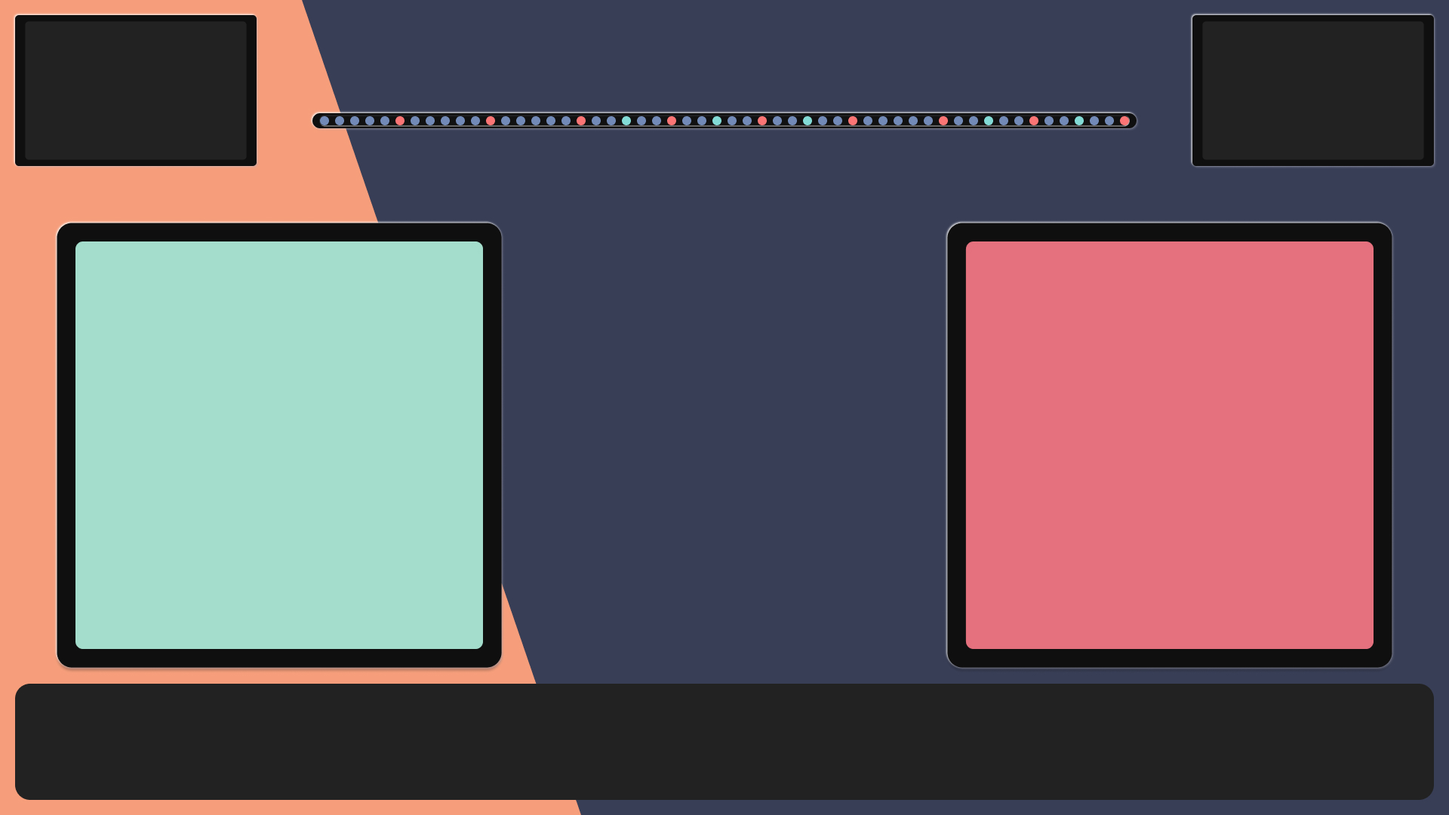
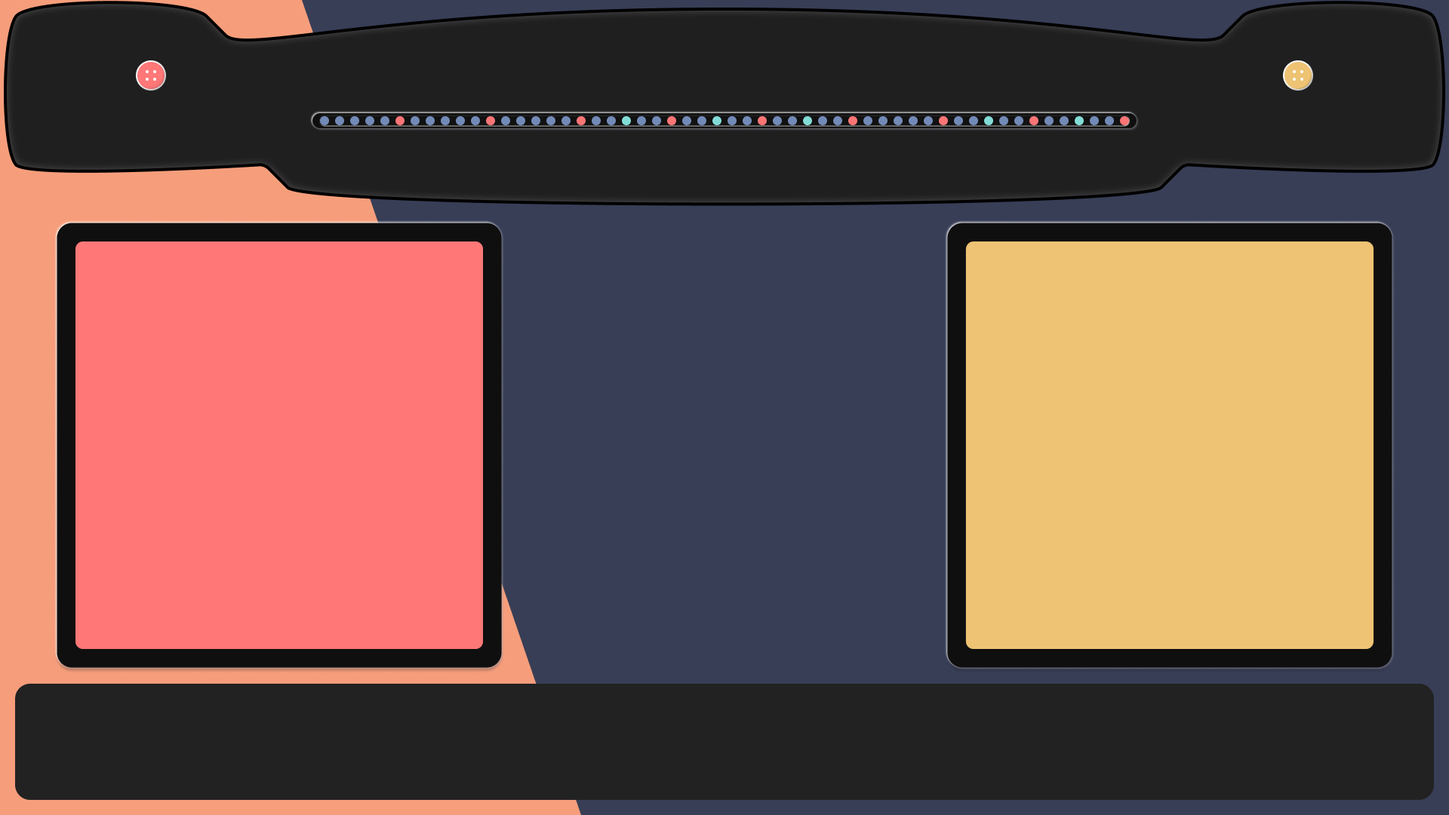
GUI update

diff --git a/src/main/resources/view/demo.js b/src/main/resources/view/demo.js
@@ -1,2 +1,1 @@
-export const demo = 
-{"views":["KEY_FRAME 0\n{\"global\":{\"entitymodule\":{\"width\":1920,\"height\":1080}},\"frame\":{\"duration\":600,\"entitymodule\":\"CS;S;R;R;S;S;C;C;C;C;C;S;C;C;C;C;C;C;S;C;C;C;C;C;C;S;C;C;C;C;C;C;S;C;C;C;C;C;C;S;C;C;C;C;C;C;S;C;C;C;C;C;C;S;C;C;C;C;C;C;S;C;C;C;C;C;C;S;C;S;S;T;T;S;S;T;T;S;S;T;T;G;S;S;T;T;G;S;S;T;T;G;S;S;T;T;G;S;S;T;T;G;S;S;T;T;G;S;S;T;T;G;S;S;T;T;G;S;S;T;T;G;S;S;T;T;G;S;S;T;T;G;S;S;T;T;G;S;S;T;T;G;S;S;T;T;G;S;S;T;T;G;S;S;T;T;G;S;S;T;T;G;S;S;T;T;G;S;S;T;T;G;S;S;T;T;G;S;S;T;T;G;S;S;T;T;G;S;S;T;T;G;S;S;T;T;G;S;S;T;T;G;S;S;T;T;G;S;S;T;T;G;S;S;T;T;G;S;S;T;T;G;S;S;T;T;G;S;S;T;T;G;S;S;T;T;G;S;S;T;T;G;S;S;T;T;G;S;S;T;T;G;S;S;T;T;G;S;S;T;T;G;S;S;T;T;G\\nU66 0.1 f 7506615 v 1 x 1450 y 160 R 6 z 2;115 0.1 f 0 v 1 ff 'Brush Script MT' x 75 y 7 s 40 T '7 ' z 3;252 0.1 ch 249,251,250 v 0;27 0.1 f 16479605 v 1 x 770 y 160 R 6 z 2;52 0.1 f 7506615 v 1 x 1210 y 160 R 6 z 2;124 0.1 bw 200 i pricetag.png v 1 x 0 y 0 bh 60;184 0.1 bw 200 i pricetag.png v 1 x 0 y 0 bh 60;244 0.1 bw 200 i pricetag.png v 1 x 0 y 0 bh 60;120 0.1 f 0 v 1 ff 'Brush Script MT' x 75 y 7 s 40 T '7 ' z 3;139 0.1 bw 200 i pricetag.png v 1 x 0 y 0 bh 60;47 0.1 bw 20 ay 0.5 i button.png v 1 ax 0.5 x 1130 y 160 bh 20 z 3;133 0.1 sx 0.2 bw 180 i tile11.png sy 0.2 ay 0.5 v 1 ax 0.5 x 548 y 979 bh 120 z 100;58 0.1 f 8641494 v 1 x 1310 y 160 R 6 z 2;194 0.1 bw 200 i pricetag.png v 1 x 0 y 0 bh 60;186 0.1 f 0 v 1 ff 'Brush Script MT' x 157 y 7 s 40 T '2 ' z 3;69 0.1 f 16479605 v 1 x 1490 y 160 R 6 z 2;82 0.1 x 1010 y 360 v 1 ch 81,80,79;137 0.1 ch 134,136,135 v 0;28 0.1 f 7506615 v 1 x 790 y 160 R 6 z 2;189 0.1 bw 200 i pricetag.png v 1 x 0 y 0 bh 60;12 0.1 bw 20 ay 0.5 i button.png v 1 ax 0.5 x 530 y 160 bh 20 z 3;7 0.1 f 7506615 v 1 x 430 y 160 R 6 z 2;230 0.1 f 0 v 1 ff 'Brush Script MT' x 75 y 7 s 40 T '1 ' z 3;93 0.1 sx 0.2 bw 180 i tile1.png sy 0.2 ay 0.5 v 1 ax 0.5 x 60 y 979 bh 180 z 100;140 0.1 f 0 v 1 ff 'Brush Script MT' x 75 y 7 s 40 T '8 ' z 3;167 0.1 ch 166,164,165 v 0;5 0.1 i TimeToken1.png ay 1 v 1 ax 0.5 x 430 y 140 z 2;21 0.1 f 7506615 v 1 x 670 y 160 R 6 z 2;90 0.1 f 0 v 1 ff 'Brush Script MT' x 75 y 7 s 40 T '4 ' z 3;118 0.1 sx 0.2 bw 300 i tile24.png sy 0.2 ay 0.5 v 1 ax 0.5 x 365 y 979 bh 60 z 100;53 0.1 f 7506615 v 1 x 1230 y 160 R 6 z 2;54 0.1 bw 20 ay 0.5 i button.png v 1 ax 0.5 x 1250 y 160 bh 20 z 3;240 0.1 f 0 v 1 ff 'Brush Script MT' x 75 y 7 s 40 T '2 ' z 3;199 0.1 bw 200 i pricetag.png v 1 x 0 y 0 bh 60;16 0.1 f 7506615 v 1 x 590 y 160 R 6 z 2;96 0.1 f 0 v 1 ff 'Brush Script MT' x 157 y 7 s 40 T '6 ' z 3;15 0.1 f 7506615 v 1 x 570 y 160 R 6 z 2;206 0.1 f 0 v 1 ff 'Brush Script MT' x 157 y 7 s 40 T '5 ' z 3;92 0.1 x 980 y 720 v 1 ch 89,90,91;163 0.1 sx 0.2 bw 180 i tile18.png sy 0.2 ay 0.5 v 1 ax 0.5 x 914 y 979 bh 60 z 100;171 0.1 f 0 v 1 ff 'Brush Script MT' x 157 y 7 s 40 T '3 ' z 3;38 0.1 f 7506615 v 1 x 970 y 160 R 6 z 2;127 0.1 ch 125,124,126 v 0;10 0.1 f 7506615 v 1 x 490 y 160 R 6 z 2;227 0.1 ch 224,225,226 v 0;195 0.1 f 0 v 1 ff 'Brush Script MT' x 75 y 7 s 40 T '10 ' z 3;154 0.1 bw 200 i pricetag.png v 1 x 0 y 0 bh 60;253 0.1 i tile-3.png v 1 r 22 sx 0.33 bw 60 sy 0.33 ay 0.5 ax 0.5 x 1071 y 159 bh 60 z 48;45 0.1 f 7506615 v 1 x 1090 y 160 R 6 z 2;1 0.1 x 0 i background.jpeg y 0 v 1 z 0;100 0.1 f 0 v 1 ff 'Brush Script MT' x 75 y 7 s 40 T '2 ' z 3;192 0.1 ch 190,189,191 v 0;20 0.1 f 16479605 v 1 x 650 y 160 R 6 z 2;55 0.1 f 16479605 v 1 x 1250 y 160 R 6 z 2;123 0.1 sx 0.2 bw 180 i tile12.png sy 0.2 ay 0.5 v 1 ax 0.5 x 426 y 979 bh 180 z 100;204 0.1 bw 200 i pricetag.png v 1 x 0 y 0 bh 60;241 0.1 f 0 v 1 ff 'Brush Script MT' x 157 y 7 s 40 T '1 ' z 3;183 0.1 sx 0.2 bw 180 i tile17.png sy 0.2 ay 0.5 v 1 ax 0.5 x 1158 y 979 bh 120 z 100;17 0.1 f 7506615 v 1 x 610 y 160 R 6 z 2;106 0.1 f 0 v 1 ff 'Brush Script MT' x 157 y 7 s 40 T '3 ' z 3;50 0.1 f 7506615 v 1 x 1170 y 160 R 6 z 2;136 0.1 f 0 v 1 ff 'Brush Script MT' x 157 y 7 s 40 T '2 ' z 3;59 0.1 f 7506615 v 1 x 1330 y 160 R 6 z 2;145 0.1 f 0 v 1 ff 'Brush Script MT' x 75 y 7 s 40 T '3 ' z 3;164 0.1 bw 200 i pricetag.png v 1 x 0 y 0 bh 60;225 0.1 f 0 v 1 ff 'Brush Script MT' x 75 y 7 s 40 T '7 ' z 3;107 0.1 ch 105,104,106 v 0;11 0.1 f 7506615 v 1 x 510 y 160 R 6 z 2;57 0.1 f 7506615 v 1 x 1290 y 160 R 6 z 2;125 0.1 f 0 v 1 ff 'Brush Script MT' x 75 y 7 s 40 T '5 ' z 3;156 0.1 f 0 v 1 ff 'Brush Script MT' x 157 y 7 s 40 T '2 ' z 3;210 0.1 f 0 v 1 ff 'Brush Script MT' x 75 y 7 s 40 T '6 ' z 3;232 0.1 ch 231,230,229 v 0;22 0.1 f 7506615 v 1 x 690 y 160 R 6 z 2;114 0.1 bw 200 i pricetag.png v 1 x 0 y 0 bh 60;180 0.1 f 0 v 1 ff 'Brush Script MT' x 75 y 7 s 40 T '1 ' z 3;18 0.1 f 7506615 v 1 x 630 y 160 R 6 z 2;37 0.1 f 8641494 v 1 x 950 y 160 R 6 z 2;235 0.1 f 0 v 1 ff 'Brush Script MT' x 75 y 7 s 40 T '5 ' z 3;61 0.1 bw 20 ay 0.5 i button.png v 1 ax 0.5 x 1370 y 160 bh 20 z 3;109 0.1 bw 200 i pricetag.png v 1 x 0 y 0 bh 60;237 0.1 ch 234,236,235 v 0;126 0.1 f 0 v 1 ff 'Brush Script MT' x 157 y 7 s 40 T '5 ' z 3;149 0.1 bw 200 i pricetag.png v 1 x 0 y 0 bh 60;234 0.1 bw 200 i pricetag.png v 1 x 0 y 0 bh 60;23 0.1 f 7506615 v 1 x 710 y 160 R 6 z 2;62 0.1 f 16479605 v 1 x 1370 y 160 R 6 z 2;191 0.1 f 0 v 1 ff 'Brush Script MT' x 157 y 7 s 40 T '2 ' z 3;166 0.1 f 0 v 1 ff 'Brush Script MT' x 157 y 7 s 40 T '2 ' z 3;175 0.1 f 0 v 1 ff 'Brush Script MT' x 75 y 7 s 40 T '1 ' z 3;29 0.1 f 7506615 v 1 x 810 y 160 R 6 z 2;129 0.1 bw 200 i pricetag.png v 1 x 0 y 0 bh 60;89 0.1 bw 200 i pricetag.png v 1 x 0 y 0 bh 60;138 0.1 sx 0.2 bw 180 i tile5.png sy 0.2 ay 0.5 v 1 ax 0.5 x 609 y 979 bh 180 z 100;215 0.1 f 0 v 1 ff 'Brush Script MT' x 75 y 7 s 40 T '0 ' z 3;236 0.1 f 0 v 1 ff 'Brush Script MT' x 157 y 7 s 40 T '3 ' z 3;67 0.1 f 7506615 v 1 x 1470 y 160 R 6 z 2;24 0.1 f 7506615 v 1 x 730 y 160 R 6 z 2;134 0.1 bw 200 i pricetag.png v 1 x 0 y 0 bh 60;205 0.1 f 0 v 1 ff 'Brush Script MT' x 75 y 7 s 40 T '10 ' z 3;122 0.1 ch 121,119,120 v 0;265 0.1 f 0 v 1 ff 'Brush Script MT' x 75 y 7 s 40 T '0 ' z 3;222 0.1 ch 221,220,219 v 0;262 0.1 ch 260,261,259 v 0;26 0.1 bw 20 ay 0.5 i button.png v 1 ax 0.5 x 770 y 160 bh 20 z 3;102 0.1 ch 100,101,99 v 0;117 0.1 ch 115,114,116 v 0;159 0.1 bw 200 i pricetag.png v 1 x 0 y 0 bh 60;72 0.1 f -1 v 1 x 40 y 160 s 32 T $0 z 1 maxWidth 280;42 0.1 f 7506615 v 1 x 1030 y 160 R 6 z 2;64 0.1 f 7506615 v 1 x 1410 y 160 R 6 z 2;151 0.1 f 0 v 1 ff 'Brush Script MT' x 157 y 7 s 40 T '2 ' z 3;219 0.1 bw 200 i pricetag.png v 1 x 0 y 0 bh 60;142 0.1 ch 140,141,139 v 0;233 0.1 sx 0.2 bw 240 i tile21.png sy 0.2 ay 0.5 v 1 ax 0.5 x 1768 y 979 bh 180 z 100;132 0.1 ch 129,131,130 v 0;14 0.1 f 7506615 v 1 x 550 y 160 R 6 z 2;63 0.1 f 7506615 v 1 x 1390 y 160 R 6 z 2;152 0.1 ch 151,150,149 v 0;213 0.1 sx 0.2 bw 240 i tile8.png sy 0.2 ay 0.5 v 1 ax 0.5 x 1524 y 979 bh 180 z 100;202 0.1 ch 201,199,200 v 0;217 0.1 ch 214,215,216 v 0;97 0.1 ch 95,94,96 v 0;86 0.1 f 0 v 1 ff 'Brush Script MT' x 157 y 7 s 40 T '2 ' z 3;174 0.1 bw 200 i pricetag.png v 1 x 0 y 0 bh 60;211 0.1 f 0 v 1 ff 'Brush Script MT' x 157 y 7 s 40 T '5 ' z 3;238 0.1 sx 0.2 bw 120 i tile32.png sy 0.2 ay 0.5 v 1 ax 0.5 x 1829 y 979 bh 60 z 100;131 0.1 f 0 v 1 ff 'Brush Script MT' x 157 y 7 s 40 T '1 ' z 3;88 0.1 sx 1 bw 180 i tile29.png sy 1 ay 0.5 v 1 ax 0.5 x 870 y 750 bh 120 z 100;187 0.1 ch 186,185,184 v 0;40 0.1 bw 20 ay 0.5 i button.png v 1 ax 0.5 x 1010 y 160 bh 20 z 3;246 0.1 f 0 v 1 ff 'Brush Script MT' x 157 y 7 s 40 T '0 ' z 3;250 0.1 f 0 v 1 ff 'Brush Script MT' x 75 y 7 s 40 T '0 ' z 3;99 0.1 bw 200 i pricetag.png v 1 x 0 y 0 bh 60;153 0.1 sx 0.2 bw 180 i tile7.png sy 0.2 ay 0.5 v 1 ax 0.5 x 792 y 979 bh 120 z 100;177 0.1 ch 174,175,176 v 0;212 0.1 ch 211,209,210 v 0;247 0.1 ch 246,244,245 v 0;13 0.1 f 16479605 v 1 x 530 y 160 R 6 z 2;173 0.1 sx 0.2 bw 300 i tile6.png sy 0.2 ay 0.5 v 1 ax 0.5 x 1036 y 979 bh 180 z 100;8 0.1 f 7506615 v 1 x 450 y 160 R 6 z 2;44 0.1 f 8641494 v 1 x 1070 y 160 R 6 z 2;30 0.1 f 8641494 v 1 x 830 y 160 R 6 z 2;201 0.1 f 0 v 1 ff 'Brush Script MT' x 157 y 7 s 40 T '1 ' z 3;258 0.1 i tile-2.png v 1 r 11 sx 0.33 bw 60 sy 0.33 ay 0.5 ax 0.5 x 951 y 159 bh 60 z 47;78 0.1 sx 1 bw 240 i tile4.png sy 1 ay 0.5 v 1 ax 0.5 x 870 y 390 bh 180 z 100;239 0.1 bw 200 i pricetag.png v 1 x 0 y 0 bh 60;98 0.1 sx 0.2 bw 240 i tile16.png sy 0.2 ay 0.5 v 1 ax 0.5 x 121 y 979 bh 120 z 100;208 0.1 sx 0.2 bw 120 i tile26.png sy 0.2 ay 0.5 v 1 ax 0.5 x 1463 y 979 bh 120 z 100;135 0.1 f 0 v 1 ff 'Brush Script MT' x 75 y 7 s 40 T '2 ' z 3;185 0.1 f 0 v 1 ff 'Brush Script MT' x 75 y 7 s 40 T '2 ' z 3;46 0.1 f 7506615 v 1 x 1110 y 160 R 6 z 2;248 0.1 i tile-4.png v 1 r 5 sx 0.33 bw 60 sy 0.33 ay 0.5 ax 0.5 x 1311 y 159 bh 60 z 49;264 0.1 bw 200 i pricetag.png v 1 x 0 y 0 bh 60;81 0.1 f 0 v 1 ff 'Brush Script MT' x 157 y 7 s 40 T '2 ' z 3;73 0.1 f -2 v 1 ax 1 x 1880 y 160 s 32 T $1 z 1 maxWidth 280;32 0.1 f 7506615 v 1 x 870 y 160 R 6 z 2;65 0.1 f 8641494 v 1 x 1430 y 160 R 6 z 2;35 0.1 f 7506615 v 1 x 910 y 160 R 6 z 2;2 0.1 x 20 i foreground.png y 15 v 1 z 100;165 0.1 f 0 v 1 ff 'Brush Script MT' x 75 y 7 s 40 T '2 ' z 3;25 0.1 f 7506615 v 1 x 750 y 160 R 6 z 2;226 0.1 f 0 v 1 ff 'Brush Script MT' x 157 y 7 s 40 T '6 ' z 3;263 0.1 i tile-1.png v 1 r 24 sx 0.33 bw 60 sy 0.33 ay 0.5 ax 0.5 x 831 y 159 bh 60 z 46;155 0.1 f 0 v 1 ff 'Brush Script MT' x 75 y 7 s 40 T '3 ' z 3;249 0.1 bw 200 i pricetag.png v 1 x 0 y 0 bh 60;6 0.1 i TimeToken2.png ay 0 v 1 ax 0.5 x 430 y 180 z 2;147 0.1 ch 145,146,144 v 0;56 0.1 f 7506615 v 1 x 1270 y 160 R 6 z 2;71 0.1 bw 100 i $1 v 1 x 1780 y 40 bh 100 z 1;218 0.1 sx 0.2 bw 180 i tile20.png sy 0.2 ay 0.5 v 1 ax 0.5 x 1585 y 979 bh 180 z 100;70 0.1 bw 100 i $0 v 1 x 40 y 40 bh 100 z 1;74 0.1 x 180 i green_button.png y 40 v 1 z 1;179 0.1 bw 200 i pricetag.png v 1 x 0 y 0 bh 60;203 0.1 sx 0.2 bw 240 i tile15.png sy 0.2 ay 0.5 v 1 ax 0.5 x 1402 y 979 bh 120 z 100;209 0.1 bw 200 i pricetag.png v 1 x 0 y 0 bh 60;43 0.1 f 7506615 v 1 x 1050 y 160 R 6 z 2;79 0.1 bw 200 i pricetag.png v 1 x 0 y 0 bh 60;216 0.1 f 0 v 1 ff 'Brush Script MT' x 157 y 7 s 40 T '3 ' z 3;41 0.1 f 16479605 v 1 x 1010 y 160 R 6 z 2;148 0.1 sx 0.2 bw 180 i tile19.png sy 0.2 ay 0.5 v 1 ax 0.5 x 731 y 979 bh 120 z 100;259 0.1 bw 200 i pricetag.png v 1 x 0 y 0 bh 60;9 0.1 f 7506615 v 1 x 470 y 160 R 6 z 2;188 0.1 sx 0.2 bw 240 i tile22.png sy 0.2 ay 0.5 v 1 ax 0.5 x 1219 y 979 bh 120 z 100;101 0.1 f 0 v 1 ff 'Brush Script MT' x 157 y 7 s 40 T '3 ' z 3;161 0.1 f 0 v 1 ff 'Brush Script MT' x 157 y 7 s 40 T '3 ' z 3;108 0.1 sx 0.2 bw 180 i tile27.png sy 0.2 ay 0.5 v 1 ax 0.5 x 243 y 979 bh 180 z 100;257 0.1 ch 254,256,255 v 0;229 0.1 bw 200 i pricetag.png v 1 x 0 y 0 bh 60;170 0.1 f 0 v 1 ff 'Brush Script MT' x 75 y 7 s 40 T '1 ' z 3;121 0.1 f 0 v 1 ff 'Brush Script MT' x 157 y 7 s 40 T '1 ' z 3;130 0.1 f 0 v 1 ff 'Brush Script MT' x 75 y 7 s 40 T '3 ' z 3;3 0.1 f -1 v 1 x 40 w 100 y 40 z 0 h 100;128 0.1 sx 0.2 bw 120 i tile31.png sy 0.2 ay 0.5 v 1 ax 0.5 x 487 y 979 bh 120 z 100;168 0.1 sx 0.2 bw 120 i tile30.png sy 0.2 ay 0.5 v 1 ax 0.5 x 975 y 979 bh 120 z 100;251 0.1 f 0 v 1 ff 'Brush Script MT' x 157 y 7 s 40 T '0 ' z 3;76 0.1 f 16777215 v 1 x 240 y 39 s 32 T 5 z 3;242 0.1 ch 239,240,241 v 0;223 0.1 sx 0.2 bw 180 i tile0.png sy 0.2 ay 0.5 v 1 ax 0.5 x 1646 y 979 bh 120 z 100;254 0.1 bw 200 i pricetag.png v 1 x 0 y 0 bh 60;119 0.1 bw 200 i pricetag.png v 1 x 0 y 0 bh 60;197 0.1 ch 195,196,194 v 0;91 0.1 f 0 v 1 ff 'Brush Script MT' x 157 y 7 s 40 T '6 ' z 3;39 0.1 f 7506615 v 1 x 990 y 160 R 6 z 2;182 0.1 ch 180,181,179 v 0;31 0.1 f 7506615 v 1 x 850 y 160 R 6 z 2;260 0.1 f 0 v 1 ff 'Brush Script MT' x 75 y 7 s 40 T '0 ' z 3;178 0.1 sx 0.2 bw 240 i tile25.png sy 0.2 ay 0.5 v 1 ax 0.5 x 1097 y 979 bh 120 z 100;196 0.1 f 0 v 1 ff 'Brush Script MT' x 157 y 7 s 40 T '4 ' z 3;87 0.1 x 1010 y 540 v 1 ch 86,85,84;190 0.1 f 0 v 1 ff 'Brush Script MT' x 75 y 7 s 40 T '4 ' z 3;266 0.1 f 0 v 1 ff 'Brush Script MT' x 157 y 7 s 40 T '0 ' z 3;200 0.1 f 0 v 1 ff 'Brush Script MT' x 75 y 7 s 40 T '2 ' z 3;207 0.1 ch 205,206,204 v 0;231 0.1 f 0 v 1 ff 'Brush Script MT' x 157 y 7 s 40 T '2 ' z 3;243 0.1 i tile-5.png v 1 r 51 sx 0.33 bw 60 sy 0.33 ay 0.5 ax 0.5 x 1431 y 159 bh 60 z 50;220 0.1 f 0 v 1 ff 'Brush Script MT' x 75 y 7 s 40 T '2 ' z 3;228 0.1 sx 0.2 bw 180 i tile14.png sy 0.2 ay 0.5 v 1 ax 0.5 x 1707 y 979 bh 120 z 100;181 0.1 f 0 v 1 ff 'Brush Script MT' x 157 y 7 s 40 T '5 ' z 3;85 0.1 f 0 v 1 ff 'Brush Script MT' x 75 y 7 s 40 T '1 ' z 3;4 0.1 f -2 v 1 x 1780 w 100 y 40 z 0 h 100;261 0.1 f 0 v 1 ff 'Brush Script MT' x 157 y 7 s 40 T '0 ' z 3;68 0.1 bw 20 ay 0.5 i button.png v 1 ax 0.5 x 1490 y 160 bh 20 z 3;172 0.1 ch 170,171,169 v 0;162 0.1 ch 160,161,159 v 0;144 0.1 bw 200 i pricetag.png v 1 x 0 y 0 bh 60;84 0.1 bw 200 i pricetag.png v 1 x 0 y 0 bh 60;113 0.1 sx 0.2 bw 240 i tile28.png sy 0.2 ay 0.5 v 1 ax 0.5 x 304 y 979 bh 120 z 100;112 0.1 ch 109,111,110 v 0;267 0.1 ch 265,264,266 v 0;51 0.1 f 7506615 v 1 x 1190 y 160 R 6 z 2;176 0.1 f 0 v 1 ff 'Brush Script MT' x 157 y 7 s 40 T '4 ' z 3;255 0.1 f 0 v 1 ff 'Brush Script MT' x 75 y 7 s 40 T '0 ' z 3;83 0.1 sx 1 bw 240 i tile10.png sy 1 ay 0.5 v 1 ax 0.5 x 870 y 570 bh 180 z 100;160 0.1 f 0 v 1 ff 'Brush Script MT' x 75 y 7 s 40 T '3 ' z 3;34 0.1 f 16479605 v 1 x 890 y 160 R 6 z 2;95 0.1 f 0 v 1 ff 'Brush Script MT' x 75 y 7 s 40 T '3 ' z 3;77 0.1 f 16777215 v 1 ax 1 x 1680 y 39 s 32 T 5 z 3;105 0.1 f 0 v 1 ff 'Brush Script MT' x 75 y 7 s 40 T '10 ' z 3;224 0.1 bw 200 i pricetag.png v 1 x 0 y 0 bh 60;104 0.1 bw 200 i pricetag.png v 1 x 0 y 0 bh 60;111 0.1 f 0 v 1 ff 'Brush Script MT' x 157 y 7 s 40 T '4 ' z 3;36 0.1 f 7506615 v 1 x 930 y 160 R 6 z 2;143 0.1 sx 0.2 bw 240 i tile13.png sy 0.2 ay 0.5 v 1 ax 0.5 x 670 y 979 bh 120 z 100;48 0.1 f 16479605 v 1 x 1130 y 160 R 6 z 2;214 0.1 bw 200 i pricetag.png v 1 x 0 y 0 bh 60;221 0.1 f 0 v 1 ff 'Brush Script MT' x 157 y 7 s 40 T '3 ' z 3;80 0.1 f 0 v 1 ff 'Brush Script MT' x 75 y 7 s 40 T '7 ' z 3;256 0.1 f 0 v 1 ff 'Brush Script MT' x 157 y 7 s 40 T '0 ' z 3;150 0.1 f 0 v 1 ff 'Brush Script MT' x 75 y 7 s 40 T '4 ' z 3;245 0.1 f 0 v 1 ff 'Brush Script MT' x 75 y 7 s 40 T '0 ' z 3;33 0.1 bw 20 ay 0.5 i button.png v 1 ax 0.5 x 890 y 160 bh 20 z 3;60 0.1 f 7506615 v 1 x 1350 y 160 R 6 z 2;103 0.1 sx 0.2 bw 240 i tile3.png sy 0.2 ay 0.5 v 1 ax 0.5 x 182 y 979 bh 120 z 100;146 0.1 f 0 v 1 ff 'Brush Script MT' x 157 y 7 s 40 T '4 ' z 3;110 0.1 f 0 v 1 ff 'Brush Script MT' x 75 y 7 s 40 T '5 ' z 3;141 0.1 f 0 v 1 ff 'Brush Script MT' x 157 y 7 s 40 T '6 ' z 3;157 0.1 ch 155,154,156 v 0;193 0.1 sx 0.2 bw 180 i tile2.png sy 0.2 ay 0.5 v 1 ax 0.5 x 1280 y 979 bh 180 z 100;49 0.1 f 7506615 v 1 x 1150 y 160 R 6 z 2;116 0.1 f 0 v 1 ff 'Brush Script MT' x 157 y 7 s 40 T '4 ' z 3;158 0.1 sx 0.2 bw 240 i tile9.png sy 0.2 ay 0.5 v 1 ax 0.5 x 853 y 979 bh 60 z 100;94 0.1 bw 200 i pricetag.png v 1 x 0 y 0 bh 60;75 0.1 x 1700 i red_button.png y 40 v 1 z 3;169 0.1 bw 200 i pricetag.png v 1 x 0 y 0 bh 60;19 0.1 bw 20 ay 0.5 i button.png v 1 ax 0.5 x 650 y 160 bh 20 z 3;198 0.1 sx 0.2 bw 240 i tile23.png sy 0.2 ay 0.5 v 1 ax 0.5 x 1341 y 979 bh 180 z 100\",\"h\":[{\"128\":{\"128\":\"R,H,1.0,1000\"},\"193\":{\"193\":\"R,H,1.0,1000\"},\"258\":{\"258\":\"R,H,1.0,1000\"},\"133\":{\"133\":\"R,H,1.0,1000\"},\"198\":{\"198\":\"R,H,1.0,1000\"},\"263\":{\"263\":\"R,H,1.0,1000\"},\"138\":{\"138\":\"R,H,1.0,1000\"},\"203\":{\"203\":\"R,H,1.0,1000\"},\"78\":{\"78\":\"R,H,1.0,1000\"},\"143\":{\"143\":\"R,H,1.0,1000\"},\"208\":{\"208\":\"R,H,1.0,1000\"},\"83\":{\"83\":\"R,H,1.0,1000\"},\"148\":{\"148\":\"R,H,1.0,1000\"},\"213\":{\"213\":\"R,H,1.0,1000\"},\"88\":{\"88\":\"R,H,1.0,1000\"},\"153\":{\"153\":\"R,H,1.0,1000\"},\"218\":{\"218\":\"R,H,1.0,1000\"},\"93\":{\"93\":\"R,H,1.0,1000\"},\"158\":{\"158\":\"R,H,1.0,1000\"},\"223\":{\"223\":\"R,H,1.0,1000\"},\"98\":{\"98\":\"R,H,1.0,1000\"},\"163\":{\"163\":\"R,H,1.0,1000\"},\"228\":{\"228\":\"R,H,1.0,1000\"},\"103\":{\"103\":\"R,H,1.0,1000\"},\"168\":{\"168\":\"R,H,1.0,1000\"},\"233\":{\"233\":\"R,H,1.0,1000\"},\"108\":{\"108\":\"R,H,1.0,1000\"},\"173\":{\"173\":\"R,H,1.0,1000\"},\"238\":{\"238\":\"R,H,1.0,1000\"},\"113\":{\"113\":\"R,H,1.0,1000\"},\"178\":{\"178\":\"R,H,1.0,1000\"},\"243\":{\"243\":\"R,H,1.0,1000\"},\"118\":{\"118\":\"R,H,1.0,1000\"},\"183\":{\"183\":\"R,H,1.0,1000\"},\"248\":{\"248\":\"R,H,1.0,1000\"},\"123\":{\"123\":\"R,H,1.0,1000\"},\"188\":{\"188\":\"R,H,1.0,1000\"},\"253\":{\"253\":\"R,H,1.0,1000\"}}]}}\n","KEY_FRAME 1\n{\"entitymodule\":\"U87 0.1 v 0;83 0.98 ay 1 ax 1 r 8100 x 100 y 320 z 900;76 1 T 4;5 1 x 470;83 1 z 10\",\"h\":[{\"83\":{}}]}\n","KEY_FRAME 2\n{\"entitymodule\":\"U203 0.1 x 1321;118 0.1 x 250;178 0.1 x 1006;138 0.1 x 502;173 0.1 x 943;148 0.1 x 628;143 0.1 x 565;78 0.1 sx 0.2 sy 0.2 x 1825 y 979;133 0.1 x 439;188 0.1 x 1132;98 0.1 sx 1 sy 1 x 870 y 750;208 0.1 x 1384;92 0.1 v 0 y 360;163 0.1 x 817;228 0.1 x 1636;108 0.1 x 124;82 0.1 v 0;102 0.1 v 1 x 1010 y 720;103 0.1 x 61;123 0.1 x 313;233 0.1 x 1699;128 0.1 x 376;213 0.1 x 1447;93 0.1 sx 1 sy 1 x 870 y 570;183 0.1 x 1069;168 0.1 x 880;97 0.1 v 1 x 980 y 540;193 0.1 x 1195;238 0.1 x 1762;223 0.1 x 1573;113 0.1 x 187;88 0.1 y 390;158 0.1 x 754;218 0.1 x 1510;153 0.1 x 691;198 0.1 x 1258;88 0.98 sx -1 ay 0 ax 1 r 0 x 1280 y 320 z 900;6 1 x 550;77 1 T 3;88 1 z 10\",\"h\":[{\"88\":{}}]}\n","KEY_FRAME 3\n{\"entitymodule\":\"U203 0.1 x 1297;118 0.1 x 192;178 0.1 x 972;138 0.1 x 452;173 0.1 x 907;148 0.1 x 582;143 0.1 x 517;107 0.1 v 1 x 1010 y 720;78 0.1 x 1817;133 0.1 x 387;188 0.1 x 1102;98 0.1 y 570;208 0.1 x 1362;163 0.1 x 777;228 0.1 x 1622;108 0.1 x 62;102 0.1 y 540;103 0.1 sx 1 sy 1 x 870 y 750;123 0.1 x 257;233 0.1 x 1687;128 0.1 x 322;213 0.1 x 1427;93 0.1 y 390;183 0.1 x 1037;168 0.1 x 842;97 0.1 v 0 y 360;193 0.1 x 1167;238 0.1 x 1752;223 0.1 x 1557;113 0.1 x 127;158 0.1 x 712;218 0.1 x 1492;153 0.1 x 647;198 0.1 x 1232;93 0.98 sx -1 ay 0 ax 0 r 12150 x 100 y 440 z 900;76 1 T 3;5 1 x 590;93 1 z 10\",\"h\":[{\"93\":{}}]}\n","KEY_FRAME 4\n{\"entitymodule\":\"U203 0.1 x 1288;118 0.1 x 132;178 0.1 x 948;138 0.1 x 404;173 0.1 x 880;148 0.1 x 540;143 0.1 x 472;107 0.1 y 540;78 0.1 x 1832;133 0.1 x 336;188 0.1 x 1084;98 0.1 y 390;208 0.1 x 1356;163 0.1 x 744;228 0.1 x 1628;108 0.1 sx 1 sy 1 x 870 y 750;102 0.1 v 0 y 360;103 0.1 y 570;123 0.1 x 200;233 0.1 x 1696;128 0.1 x 268;213 0.1 x 1424;183 0.1 x 1016;168 0.1 x 812;193 0.1 x 1152;238 0.1 x 1764;223 0.1 x 1560;113 0.1 x 64;112 0.1 v 1 x 980 y 720;158 0.1 x 676;153 0.1 x 608;198 0.1 x 1220;98 0.98 sx -1 ay 1 ax 1 r 4050 x 1280 y 440 z 900;6 1 x 610;98 1 z 10;77 1 T 1\",\"h\":[{\"98\":{}}]}\n","KEY_FRAME 5\n{\"entitymodule\":\"U203 0.1 x 1255;118 0.1 x 65;178 0.1 x 905;138 0.1 x 345;173 0.1 x 835;148 0.1 x 485;143 0.1 x 415;107 0.1 y 360;78 0.1 x 1815;133 0.1 x 275;188 0.1 x 1045;208 0.1 x 1325;163 0.1 x 695;228 0.1 x 1605;108 0.1 y 570;117 0.1 v 1 x 1010 y 720;103 0.1 y 390;123 0.1 x 135;233 0.1 x 1675;128 0.1 x 205;213 0.1 x 1395;183 0.1 x 975;168 0.1 x 765;193 0.1 x 1115;238 0.1 x 1745;223 0.1 x 1535;113 0.1 sx 1 sy 1 x 870 y 750;112 0.1 y 540;158 0.1 x 625;218 0.1 x 1465;153 0.1 x 555;198 0.1 x 1185;76 1 T 5;5 1 x 630\"}\n","KEY_FRAME 6\n{\"entitymodule\":\"U6 1 x 650;77 1 T 6\"}\n","KEY_FRAME 7\n{\"entitymodule\":\"U112 0.1 v 0;108 0.98 sx -1 ay 1 ax 1 r 4050 x 100 y 620 z 900;76 1 T 4;5 1 x 710;108 1 z 10\",\"h\":[{\"108\":{}}]}\n","KEY_FRAME 8\n{\"entitymodule\":\"U203 0.1 x 1161;118 0.1 sx 1 sy 1 x 870 y 570;178 0.1 x 796;138 0.1 x 212;173 0.1 x 723;148 0.1 x 358;143 0.1 x 285;107 0.1 v 0;122 0.1 v 1 x 1040 y 540;78 0.1 x 1745;133 0.1 x 139;188 0.1 x 942;208 0.1 x 1234;163 0.1 x 577;228 0.1 x 1526;127 0.1 x 980 y 720;117 0.1 y 360;103 0.1 sx 0.2 sy 0.2 x 1818 y 979;123 0.1 sx 1 sy 1 x 870 y 750;233 0.1 x 1599;128 0.1 x 66;213 0.1 x 1307;183 0.1 x 869;168 0.1 x 650;193 0.1 x 1015;238 0.1 x 1672;223 0.1 x 1453;113 0.1 y 390;158 0.1 x 504;218 0.1 x 1380;153 0.1 x 431;198 0.1 x 1088;123 0.98 ay 0 ax 1 r 12150 x 1280 y 620 z 900;6 1 x 750;77 1 T 1;123 1 z 10\",\"h\":[{\"123\":{}}]}\n","KEY_FRAME 9\n{\"entitymodule\":\"U203 0.1 x 980;118 0.1 sx 0.2 sy 0.2 x 1816 y 979;178 0.1 x 600;138 0.1 sx 1 sy 1 x 870 y 750;173 0.1 x 524;148 0.1 x 144;143 0.1 x 68;122 0.1 v 0;78 0.1 x 1588;133 0.1 sx 1 sy 1 x 870 y 570;188 0.1 x 752;208 0.1 x 1056;163 0.1 x 372;228 0.1 x 1360;137 0.1 v 1 x 980 y 540;117 0.1 v 0;103 0.1 x 1664;142 0.1 v 1 x 980 y 720;233 0.1 x 1436;132 0.1 x 950 y 360;128 0.1 sx 1 sy 1 x 870 y 390;213 0.1 x 1132;183 0.1 x 676;168 0.1 x 448;193 0.1 x 828;238 0.1 x 1512;223 0.1 x 1284;113 0.1 sx 0.2 sy 0.2 x 1740 y 979;158 0.1 x 296;218 0.1 x 1208;153 0.1 x 220;198 0.1 x 904;128 0.98 sx -1 ay 1 ax 1 r 4050 x 100 y 740 z 900;76 1 T 1;5 1 x 730;128 1 z 10\",\"h\":[{\"128\":{}}]}\n","KEY_FRAME 10\n{\"entitymodule\":\"U203 0.1 x 950;118 0.1 x 1830;178 0.1 x 550;138 0.1 y 570;173 0.1 x 470;148 0.1 x 70;143 0.1 sx 1 sy 1 x 870 y 750;78 0.1 x 1590;133 0.1 y 390;188 0.1 x 710;208 0.1 x 1030;163 0.1 x 310;228 0.1 x 1350;137 0.1 y 360;103 0.1 x 1670;142 0.1 y 540;233 0.1 x 1430;213 0.1 x 1110;183 0.1 x 630;168 0.1 x 390;193 0.1 x 790;238 0.1 x 1510;147 0.1 v 1 x 1010 y 720;223 0.1 x 1270;113 0.1 x 1750;158 0.1 x 230;218 0.1 x 1190;153 0.1 x 150;198 0.1 x 870;76 1 T 7;5 1 x 770\"}\n","KEY_FRAME 11\n{\"entitymodule\":\"U6 1 x 790;77 1 T 8\"}\n","KEY_FRAME 12\n{\"entitymodule\":\"U137 0.1 v 0;133 0.98 ay 1 ax 1 r 8100 x 220 y 500 z 900;76 1 T 5;133 1 z 10;5 1 x 810\",\"h\":[{\"133\":{}}]}\n","KEY_FRAME 13\n{\"entitymodule\":\"U203 0.1 x 901;118 0.1 x 1814;178 0.1 x 486;138 0.1 y 390;173 0.1 x 403;148 0.1 sx 1 sy 1 x 870 y 750;143 0.1 y 570;78 0.1 x 1565;188 0.1 x 652;208 0.1 x 984;163 0.1 x 237;228 0.1 x 1316;103 0.1 x 1648;142 0.1 v 0 y 360;233 0.1 x 1399;152 0.1 v 1 x 980 y 720;213 0.1 x 1067;183 0.1 x 569;168 0.1 x 320;193 0.1 x 735;238 0.1 x 1482;147 0.1 y 540;223 0.1 x 1233;113 0.1 x 1731;158 0.1 x 154;218 0.1 x 1150;153 0.1 x 71;198 0.1 x 818;138 0.98 ay 0 ax 0 r 0 x 1340 y 440 z 900;6 1 x 910;138 1 z 10\",\"h\":[{\"138\":{}}]}\n","KEY_FRAME 14\n{\"entitymodule\":\"U203 0.1 x 856;118 0.1 x 1813;178 0.1 x 421;173 0.1 x 334;148 0.1 y 570;143 0.1 y 390;78 0.1 x 1552;188 0.1 x 595;208 0.1 x 943;163 0.1 x 160;228 0.1 x 1291;103 0.1 x 1639;233 0.1 x 1378;157 0.1 v 1 x 980 y 720;152 0.1 y 540;213 0.1 x 1030;183 0.1 x 508;168 0.1 x 247;193 0.1 x 682;238 0.1 x 1465;147 0.1 y 360;223 0.1 x 1204;113 0.1 x 1726;158 0.1 x 73;218 0.1 x 1117;153 0.1 sx 1 sy 1 x 870 y 750;198 0.1 x 769;263 0.98 sx 1 sy 1 ay 0 ax 0 r 0 x 1280 y 560 z 900;263 1 z 10\",\"h\":[{\"263\":{}}]}\n","KEY_FRAME 15\n{\"entitymodule\":\"U147 0.1 v 0;143 0.98 sx -1 ay 0 ax 1 r 0 x 220 y 320 z 900;143 1 z 10;76 1 T 7;5 1 x 890\",\"h\":[{\"143\":{}}]}\n","KEY_FRAME 16\n{\"entitymodule\":\"U203 0.1 x 812;118 0.1 x 1824;178 0.1 x 352;173 0.1 x 260;148 0.1 y 390;78 0.1 x 1548;188 0.1 x 536;208 0.1 x 904;163 0.1 x 76;228 0.1 x 1272;103 0.1 x 1640;162 0.1 v 1 x 1010 y 720;233 0.1 x 1364;157 0.1 y 540;152 0.1 v 0 y 360;213 0.1 x 996;183 0.1 x 444;168 0.1 x 168;193 0.1 x 628;238 0.1 x 1456;223 0.1 x 1180;113 0.1 x 1732;158 0.1 sx 1 sy 1 x 870 y 750;218 0.1 x 1088;153 0.1 y 570;198 0.1 x 720;148 0.98 ay 1 ax 0 r 4050 x 220 y 620 z 900;76 1 T 3;5 1 x 930;148 1 z 10\",\"h\":[{\"148\":{}}]}\n","KEY_FRAME 17\n{\"entitymodule\":\"U203 0.1 x 750;118 0.1 x 1806;178 0.1 x 270;173 0.1 x 174;78 0.1 x 1518;188 0.1 x 462;208 0.1 x 846;163 0.1 sx 1 sy 1 x 870 y 750;228 0.1 x 1230;103 0.1 x 1614;162 0.1 y 540;233 0.1 x 1326;157 0.1 v 0 y 360;213 0.1 x 942;183 0.1 x 366;168 0.1 x 78;193 0.1 x 558;167 0.1 v 1 x 980 y 720;238 0.1 x 1422;223 0.1 x 1134;113 0.1 x 1710;158 0.1 y 570;218 0.1 x 1038;153 0.1 y 390;198 0.1 x 654;153 0.98 sx -1 ay 0 ax 1 r 0 x 1280 y 740 z 900;6 1 x 950;77 1 T 5;153 1 z 10\",\"h\":[{\"153\":{}}]}\n","KEY_FRAME 18\n{\"entitymodule\":\"U203 0.1 x 693;118 0.1 x 1815;178 0.1 x 183;172 0.1 v 1 x 950 y 720;103 0.1 x 1611;162 0.1 y 360;233 0.1 x 1305;173 0.1 x 81;213 0.1 x 897;183 0.1 x 285;168 0.1 sx 1 sy 1 x 870 y 750;193 0.1 x 489;167 0.1 y 540;238 0.1 x 1407;78 0.1 x 1509;188 0.1 x 387;223 0.1 x 1101;113 0.1 x 1713;208 0.1 x 795;163 0.1 y 570;158 0.1 y 390;218 0.1 x 999;228 0.1 x 1203;198 0.1 x 591;258 0.98 sx 1 sy 1 ay 0 ax 0 r 0 x 1340 y 320 z 900;258 1 z 10\",\"h\":[{\"258\":{}}]}\n","KEY_FRAME 19\n{\"entitymodule\":\"U162 0.1 v 0;158 0.98 ay 0 ax 0 r 0 x 220 y 800 z 900;76 1 T 0;5 1 x 990;158 1 z 10\",\"h\":[{\"158\":{}}]}\n","KEY_FRAME 20\n{\"entitymodule\":\"U203 0.1 x 624;118 0.1 x 1812;178 0.1 x 84;172 0.1 y 540;103 0.1 x 1596;233 0.1 x 1272;173 0.1 sx 1 sy 1 x 870 y 750;213 0.1 x 840;183 0.1 x 192;168 0.1 y 570;193 0.1 x 408;167 0.1 v 0 y 360;238 0.1 x 1380;78 0.1 x 1488;188 0.1 x 300;223 0.1 x 1056;113 0.1 x 1704;208 0.1 x 732;163 0.1 y 390;218 0.1 x 948;228 0.1 x 1164;177 0.1 v 1 x 1040 y 720;198 0.1 x 516;163 0.98 sx -1 ay 1 ax 0 r 8100 x 1400 y 320 z 900;6 1 x 990;163 1 z 10;77 1 T 3\",\"h\":[{\"163\":{}}]}\n","KEY_FRAME 21\n{\"entitymodule\":\"U203 0.1 x 547;178 0.1 sx 1 sy 1 x 870 y 750;172 0.1 v 0 y 360;103 0.1 x 1582;233 0.1 x 1237;173 0.1 y 570;213 0.1 x 777;183 0.1 x 87;168 0.1 y 390;193 0.1 x 317;238 0.1 x 1352;78 0.1 x 1467;188 0.1 x 202;223 0.1 x 1007;113 0.1 x 1697;208 0.1 x 662;218 0.1 x 892;228 0.1 x 1122;177 0.1 y 540;182 0.1 v 1 x 1010 y 720;198 0.1 x 432;168 0.98 sx -1 ay 1 ax 1 r 4050 x 1400 y 620 z 900;6 1 x 1050;77 1 T 11;168 1 z 10\",\"h\":[{\"168\":{}}]}\n","KEY_FRAME 22\n{\"entitymodule\":\"U203 0.1 x 457;118 0.1 x 1799;178 0.1 y 570;103 0.1 x 1555;233 0.1 x 1189;173 0.1 y 390;213 0.1 x 701;183 0.1 sx 1 sy 1 x 870 y 750;193 0.1 x 213;238 0.1 x 1311;78 0.1 x 1433;188 0.1 x 91;223 0.1 x 945;113 0.1 x 1677;208 0.1 x 579;187 0.1 v 1 x 980 y 720;218 0.1 x 823;228 0.1 x 1067;177 0.1 y 360;182 0.1 y 540;198 0.1 x 335;76 1 T 11;5 1 x 1070\"}\n","KEY_FRAME 23\n{\"entitymodule\":\"U253 0.98 sx 1 sy 1 ay 0 ax 0 r 0 x 100 y 560 z 900;253 1 z 10\",\"h\":[{\"253\":{}}]}\n","KEY_FRAME 24\n{\"entitymodule\":\"U177 0.1 v 0;173 0.98 ay 0 ax 0 r 0 x 1460 y 320 z 900;6 1 x 1130;77 1 T 20;173 1 z 10\",\"h\":[{\"173\":{}}]}\n","KEY_FRAME 25\n{\"entitymodule\":\"U203 0.1 x 357;118 0.1 x 1798;178 0.1 y 390;192 0.1 v 1 x 1010 y 720;103 0.1 x 1536;233 0.1 x 1143;213 0.1 x 619;183 0.1 y 570;193 0.1 x 95;238 0.1 x 1274;78 0.1 x 1405;188 0.1 sx 1 sy 1 x 870 y 750;223 0.1 x 881;113 0.1 x 1667;208 0.1 x 488;187 0.1 y 540;218 0.1 x 750;228 0.1 x 1012;182 0.1 v 0 y 360;198 0.1 x 226;178 0.98 ay 1 ax 0 r 4050 x 340 y 440 z 900;76 1 T 18;178 1 z 10;5 1 x 1170\",\"h\":[{\"178\":{}}]}\n","KEY_FRAME 26\n{\"entitymodule\":\"U203 0.1 x 241;118 0.1 x 1792;192 0.1 y 540;103 0.1 x 1510;233 0.1 x 1087;213 0.1 x 523;183 0.1 y 390;193 0.1 sx 1 sy 1 x 870 y 750;238 0.1 x 1228;78 0.1 x 1369;188 0.1 y 570;223 0.1 x 805;113 0.1 x 1651;208 0.1 x 382;197 0.1 v 1 x 980 y 720;187 0.1 v 0 y 360;218 0.1 x 664;228 0.1 x 946;198 0.1 x 100;183 0.98 ay 1 ax 1 r 8100 x 1400 y 740 z 900;6 1 x 1170;77 1 T 18;183 1 z 10\",\"h\":[{\"183\":{}}]}\n","KEY_FRAME 27\n{\"entitymodule\":\"U203 0.1 x 106;118 0.1 x 1789;192 0.1 v 0 y 360;103 0.1 x 1483;233 0.1 x 1024;213 0.1 x 412;202 0.1 v 1 x 1010 y 720;193 0.1 y 570;238 0.1 x 1177;78 0.1 x 1330;188 0.1 y 390;223 0.1 x 718;113 0.1 x 1636;208 0.1 x 259;197 0.1 y 540;218 0.1 x 565;228 0.1 x 871;198 0.1 sx 1 sy 1 x 870 y 750;188 0.98 sx -1 ay 1 ax 1 r 4050 x 1520 y 440 z 900;6 1 x 1210;188 1 z 10;77 1 T 14\",\"h\":[{\"188\":{}}]}\n","KEY_FRAME 28\n{\"entitymodule\":\"U203 0.1 sx 1 sy 1 x 870 y 750;118 0.1 x 1783;103 0.1 x 1449;233 0.1 x 948;213 0.1 x 280;202 0.1 y 540;207 0.1 v 1 x 1010 y 720;193 0.1 y 390;238 0.1 x 1115;78 0.1 x 1282;223 0.1 x 614;113 0.1 x 1616;208 0.1 x 113;197 0.1 v 0 y 360;218 0.1 x 447;228 0.1 x 781;198 0.1 y 570;193 0.98 ay 1 ax 0 r 4050 x 340 y 620 z 900;193 1 z 10;76 1 T 19;5 1 x 1250\",\"h\":[{\"193\":{}}]}\n","KEY_FRAME 29\n{\"entitymodule\":\"U212 0.1 v 1 x 950 y 720;203 0.1 y 570;118 0.1 x 1778;103 0.1 x 1410;233 0.1 x 858;213 0.1 x 122;202 0.1 v 0 y 360;207 0.1 y 540;238 0.1 x 1042;78 0.1 x 1226;223 0.1 x 490;113 0.1 x 1594;208 0.1 sx 1 sy 1 x 870 y 750;218 0.1 x 306;228 0.1 x 674;198 0.1 y 390;198 0.98 sx -1 ay 1 ax 0 r 8100 x 1520 y 620 z 900;6 1 x 1230;77 1 T 12;198 1 z 10\",\"h\":[{\"198\":{}}]}\n","KEY_FRAME 30\n{\"entitymodule\":\"U212 0.1 y 540;203 0.1 y 390;118 0.1 x 1764;103 0.1 x 1356;233 0.1 x 744;213 0.1 sx 1 sy 1 x 870 y 750;217 0.1 v 1 x 1010 y 720;207 0.1 v 0 y 360;238 0.1 x 948;78 0.1 x 1152;223 0.1 x 336;113 0.1 x 1560;208 0.1 y 570;218 0.1 x 132;228 0.1 x 540;203 0.98 ay 1 ax 1 r 8100 x 1580 y 740 z 900;203 1 z 10;6 1 x 1330;77 1 T 15\",\"h\":[{\"203\":{}}]}\n","KEY_FRAME 31\n{\"entitymodule\":\"U212 0.1 y 360;118 0.1 x 1755;103 0.1 x 1295;233 0.1 x 605;213 0.1 y 570;217 0.1 y 540;238 0.1 x 835;78 0.1 x 1065;223 0.1 x 145;113 0.1 x 1525;222 0.1 v 1 x 980 y 720;208 0.1 y 390;218 0.1 sx 1 sy 1 x 870 y 750;228 0.1 x 375;248 0.98 sx 1 sy 1 ay 0 ax 1 r 12150 x 1460 y 440 z 900;248 1 z 10\",\"h\":[{\"248\":{}}]}\n","KEY_FRAME 32\n{\"entitymodule\":\"U212 0.1 v 0;208 0.98 sx -1 ay 0 ax 1 r 0 x 460 y 320 z 900;76 1 T 13;5 1 x 1350;208 1 z 10\",\"h\":[{\"208\":{}}]}\n","KEY_FRAME 33\n{\"entitymodule\":\"U118 0.1 x 1733;103 0.1 x 1209;233 0.1 x 423;213 0.1 y 390;217 0.1 v 0 y 360;238 0.1 x 685;78 0.1 x 947;223 0.1 sx 1 sy 1 x 870 y 750;113 0.1 x 1471;222 0.1 y 540;218 0.1 y 570;228 0.1 x 161;227 0.1 v 1 x 980 y 720;213 0.98 sx -1 ay 0 ax 0 r 12150 x 1640 y 440 z 900;6 1 x 1390;77 1 T 29;213 1 z 10\",\"h\":[{\"213\":{}}]}\n","KEY_FRAME 34\n{\"entitymodule\":\"U232 0.1 v 1 x 980 y 720;118 0.1 x 1713;238 0.1 x 489;78 0.1 x 795;223 0.1 y 570;113 0.1 x 1407;222 0.1 v 0 y 360;218 0.1 y 390;228 0.1 sx 1 sy 1 x 870 y 750;103 0.1 x 1101;233 0.1 x 183;227 0.1 y 540;218 0.98 ay 0 ax 0 r 0 x 460 y 440 z 900;76 1 T 24;5 1 x 1410;218 1 z 10\",\"h\":[{\"218\":{}}]}\n","KEY_FRAME 35\n{\"entitymodule\":\"U232 0.1 y 540;118 0.1 x 1686;238 0.1 x 214;78 0.1 x 582;223 0.1 y 390;113 0.1 x 1318;228 0.1 y 570;103 0.1 x 950;233 0.1 sx 1 sy 1 x 870 y 750;237 0.1 v 1 x 1010 y 720;227 0.1 y 360;6 1 x 1430;77 1 T 31\"}\n","KEY_FRAME 36\n{\"entitymodule\":\"U243 0.98 sx 1 sy 1 ay 0 ax 0 r 0 x 1520 y 620 z 900;243 1 z 10\",\"h\":[{\"243\":{}}]}\n","KEY_FRAME 37\n{\"entitymodule\":\"U227 0.1 v 0;223 0.98 ay 0 ax 1 r 12150 x 460 y 680 z 900;76 1 T 33;5 1 x 1490;223 1 z 10\",\"h\":[{\"223\":{}}]}\n","KEY_FRAME 38\n{\"entitymodule\":\"U232 0.1 y 360;118 0.1 x 1640;238 0.1 sx 1 sy 1 x 870 y 750;78 0.1 x 260;242 0.1 x 950 y 720;113 0.1 x 1180;228 0.1 y 390;103 0.1 x 720;233 0.1 y 570;237 0.1 y 540;238 0.98 sx -1 ay 1 ax 0 r 8100 x 1640 y 320 z 900;6 1 x 1450;238 1 z 10;77 1 T 29\",\"h\":[{\"238\":{}}]}\n","KEY_FRAME 39\n{\"entitymodule\":\"U107 0.1 v 1 y 540;232 0.1 v 0;118 0.1 x 336;78 0.1 sx 1 sy 1 x 870 y 390;113 0.1 sx 1 sy 1 x 870 y 750;228 0.1 sx 0.2 sy 0.2 x 949 y 979;103 0.1 sx 1 sy 1 x 870 y 570;233 0.1 sx 0.2 sy 0.2 x 1562 y 979;82 0.1 v 1;237 0.1 v 0;117 0.1 v 1 y 720;6 1 x 1490;77 1 T 45\",\"endScreen\":[[201,225],\"logo.png\",null]}\n"],"agents":[{"index":0,"name":"Player 0","avatar":"https://static.codingame.com/servlet/fileservlet?id=16085734516701&format=viewer_avatar","agentId":0},{"index":1,"name":"Player 1","avatar":"https://static.codingame.com/servlet/fileservlet?id=16085846089817&format=viewer_avatar","agentId":1}]};
+export const demo = null

diff --git a/src/main/kotlin/com/codingame/game/Interface.kt b/src/main/kotlin/com/codingame/game/Interface.kt
@@ -8,7 +8,6 @@ import com.google.inject.Inject
 import com.google.inject.Singleton
 import view.modules.InteractiveDisplayModule
 
-private const val AVATAR_SIZE = 136
 private const val TILE_SIZE = 60
 
 private val greens = arrayOf(
@@ -42,6 +41,7 @@ class Interface {
     private var player2MoneyText: Text? = null
     private var player1TimeToken: Sprite? = null
     private var player2TimeToken: Sprite? = null
+    private var bonusButton: Sprite? = null
 
     fun updateMoney(player1Money: Int, player2Money: Int) {
         player1MoneyText?.text = "$player1Money"
@@ -53,6 +53,14 @@ class Interface {
         player2TimeToken?.x = 430 + 20 * player2Time
     }
 
+    fun acquireBonus(playerId: Int) {
+        when(playerId) {
+            0 -> bonusButton?.setX(325)?.setY(60)
+            1 -> bonusButton?.setX(1920-325)?.setY(60)
+            else -> {}
+        }
+    }
+
     fun hud(player1: Player, player2: Player) {
         g.createSprite()
             .setZIndex(0)
@@ -62,8 +70,8 @@ class Interface {
 
         g.createSprite()
             .setZIndex(100)
-            .setX(20)
-            .setY(15)
+            .setX(30)
+            .setY(0)
             .setImage("foreground.png")
 
         g.createRectangle()
@@ -157,32 +165,29 @@ class Interface {
             .setAnchorX(1.0)
             .setMaxWidth(280)
 
-        g.createSprite()
-            .setX(180)
-            .setY(40)
-            .setZIndex(1)
-            .setImage("green_button.png")
-
-        g.createSprite()
-            .setX(1700)
-            .setY(40)
-            .setZIndex(3)
-            .setImage("red_button.png")
-
         player1MoneyText = g.createText("5")
-            .setX(240)
-            .setY(39)
+            .setX(230)
+            .setY(80)
+            .setMaxWidth(100)
             .setZIndex(3)
             .setFontSize(32)
             .setFillColor(0xFFFFFF)
 
         player2MoneyText = g.createText("5")
-            .setX(1680)
-            .setY(39)
+            .setX(1690)
+            .setY(80)
+            .setMaxWidth(100)
             .setZIndex(3)
             .setFontSize(32)
             .setFillColor(0xFFFFFF)
             .setAnchorX(1.0)
+
+        bonusButton = g.createSprite()
+            .setAnchor(0.5)
+            .setX(960)
+            .setY(50)
+            .setZIndex(3)
+            .setImage("bonus.png")
     }
 
     private fun showTile(tile: Tile): TileEntity {

diff --git a/src/test/kotlin/PatchWorkMain.kt b/src/test/kotlin/PatchWorkMain.kt
@@ -5,7 +5,8 @@ object PatchWorkMain {
     fun main(args: Array<String>) {
         val gameRunner = MultiplayerGameRunner()
         gameRunner.addAgent(Agent1::class.java)
-        gameRunner.addAgent("python3 src/test/kotlin/agent.py");
+        gameRunner.addAgent(Agent1::class.java)
+//        gameRunner.addAgent("python3 src/test/kotlin/agent.py");
         gameRunner.start()
     }
 }

diff --git a/src/main/kotlin/com/codingame/game/BoardManager.kt b/src/main/kotlin/com/codingame/game/BoardManager.kt
@@ -140,6 +140,8 @@ class BoardManager(preparedTiles: List<Tile>, private val gui: Interface) {
                         }
                     }
                     player.bonusAchieved = true
+                    gui.acquireBonus(playerId)
+                    System.err.println("BONUSSSS")
                     break@out
                 }
             }

diff --git a/src/main/resources/view/config.js b/src/main/resources/view/config.js
@@ -8,6 +8,6 @@ export const modules = [
 	InteractiveDisplayModule
 ];
 export const playerColors = [
-	'#66AE30',
-	'#D99616'
+	'#FF7878',
+	'#EEC373'
 ];
